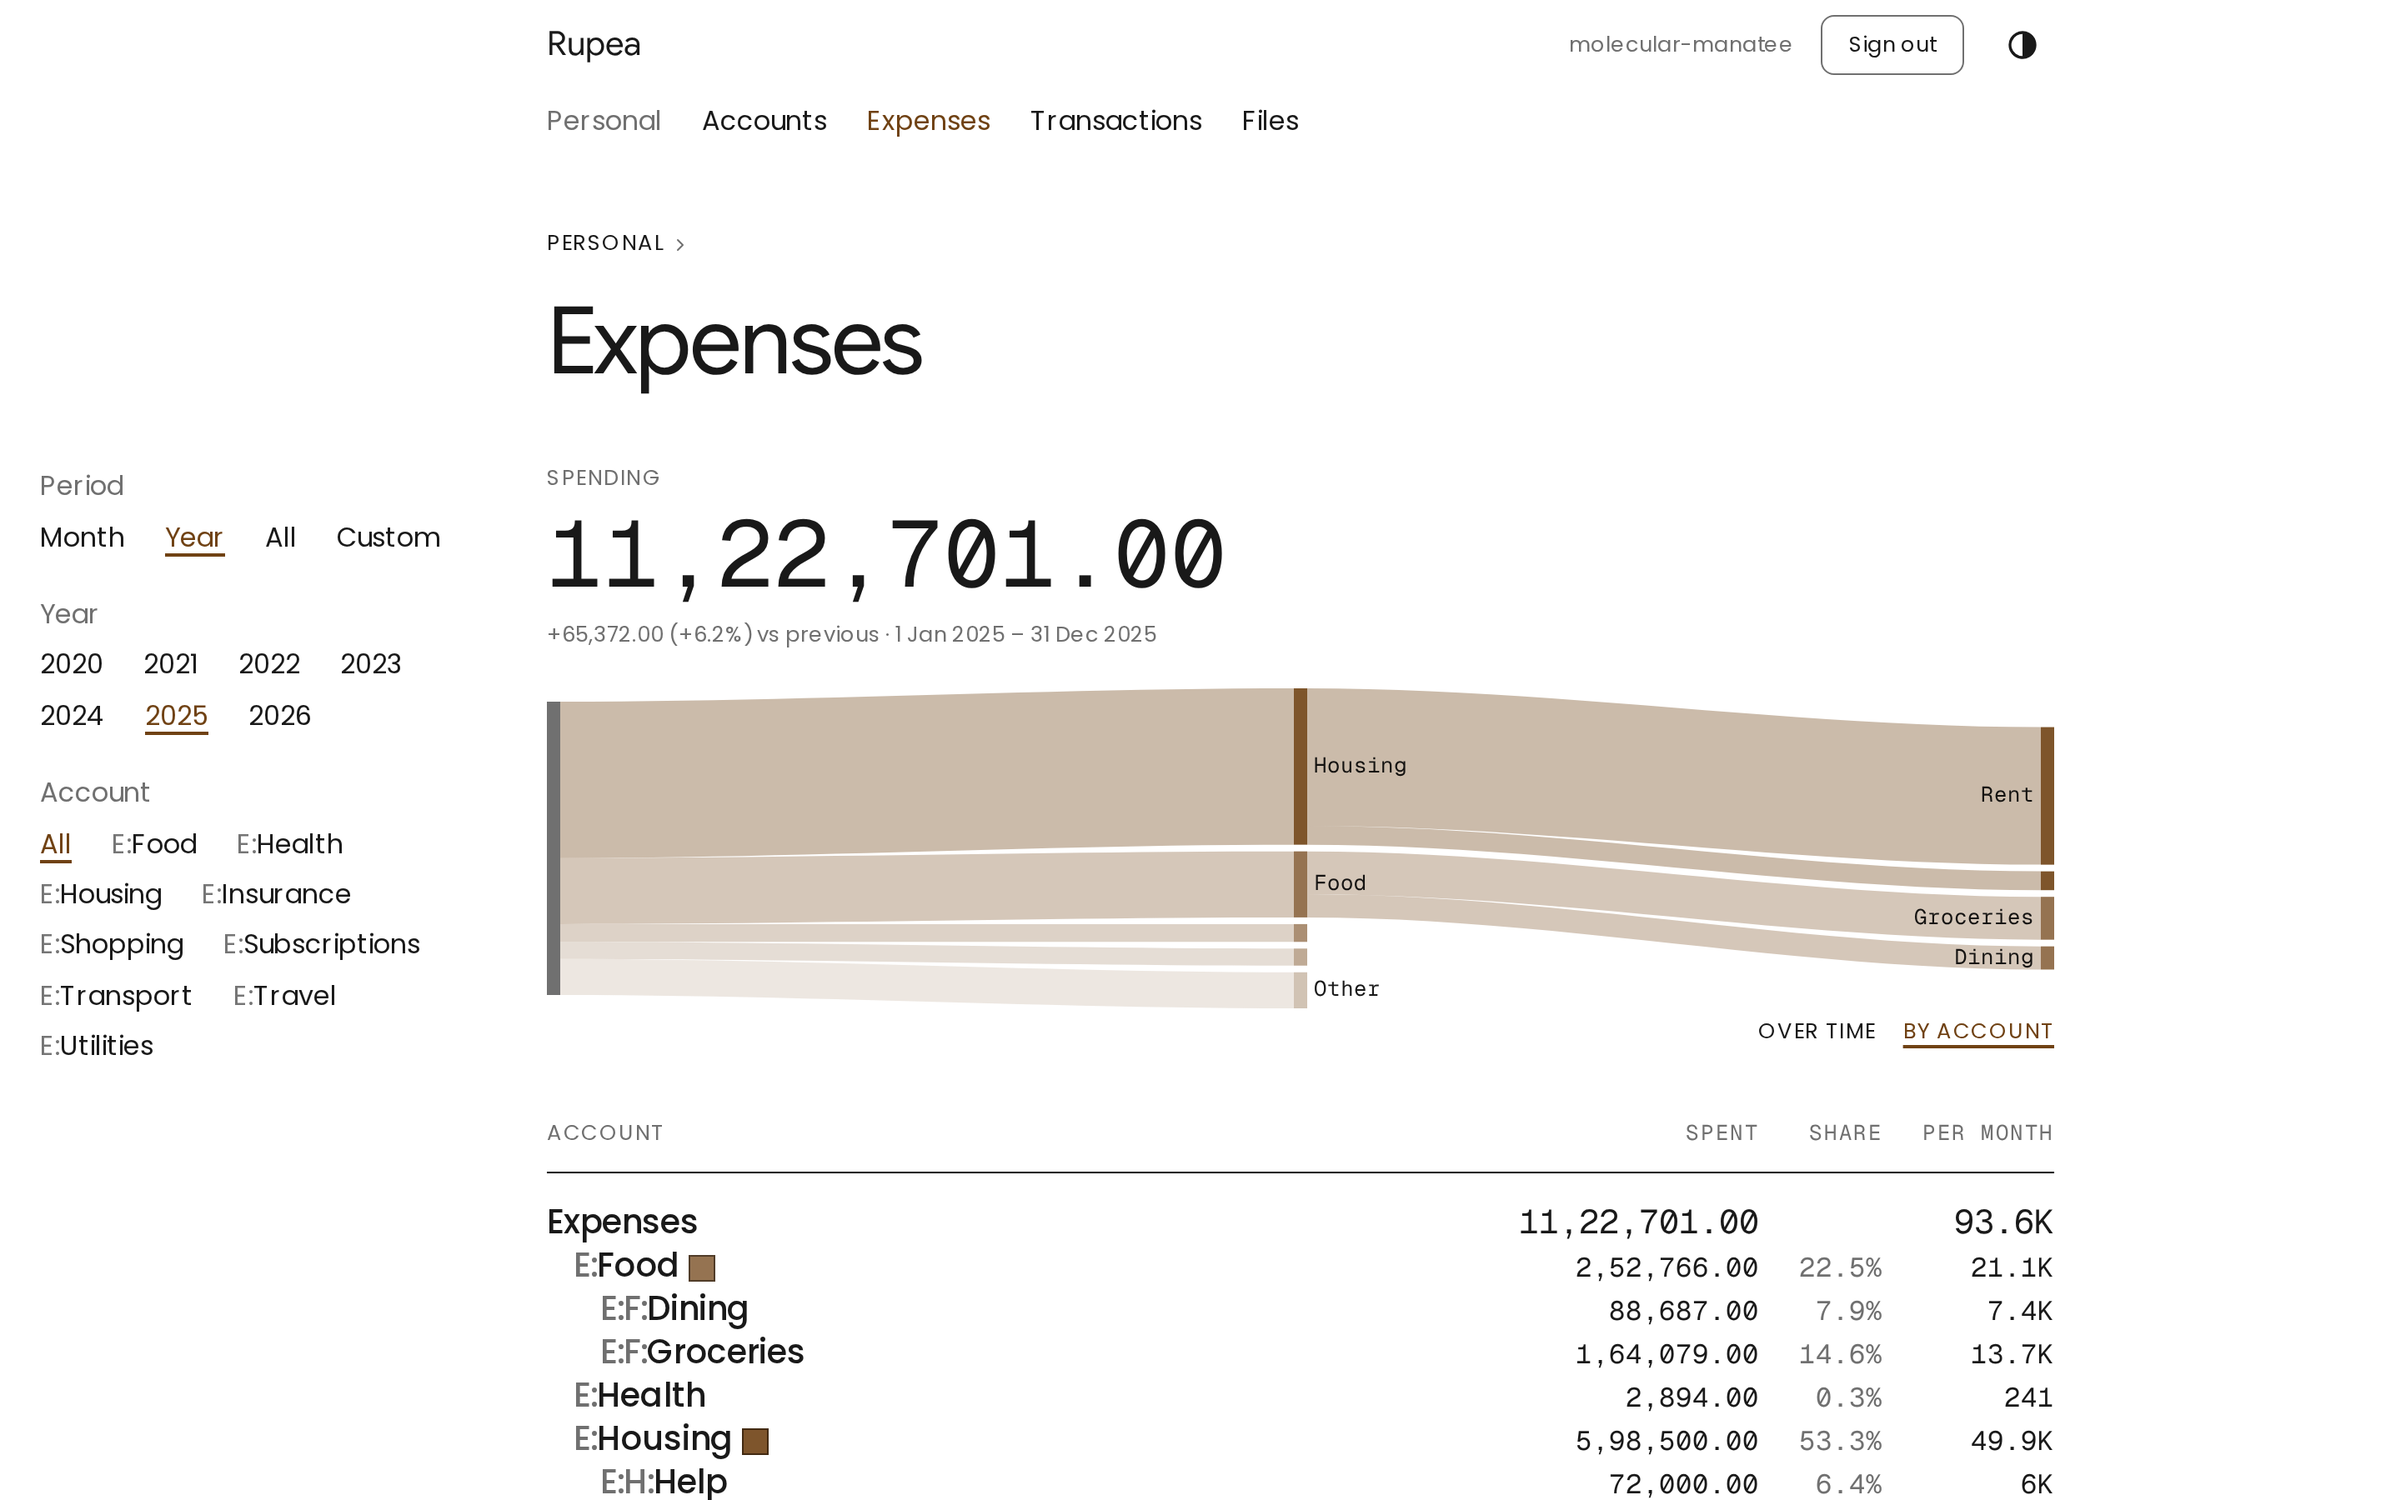
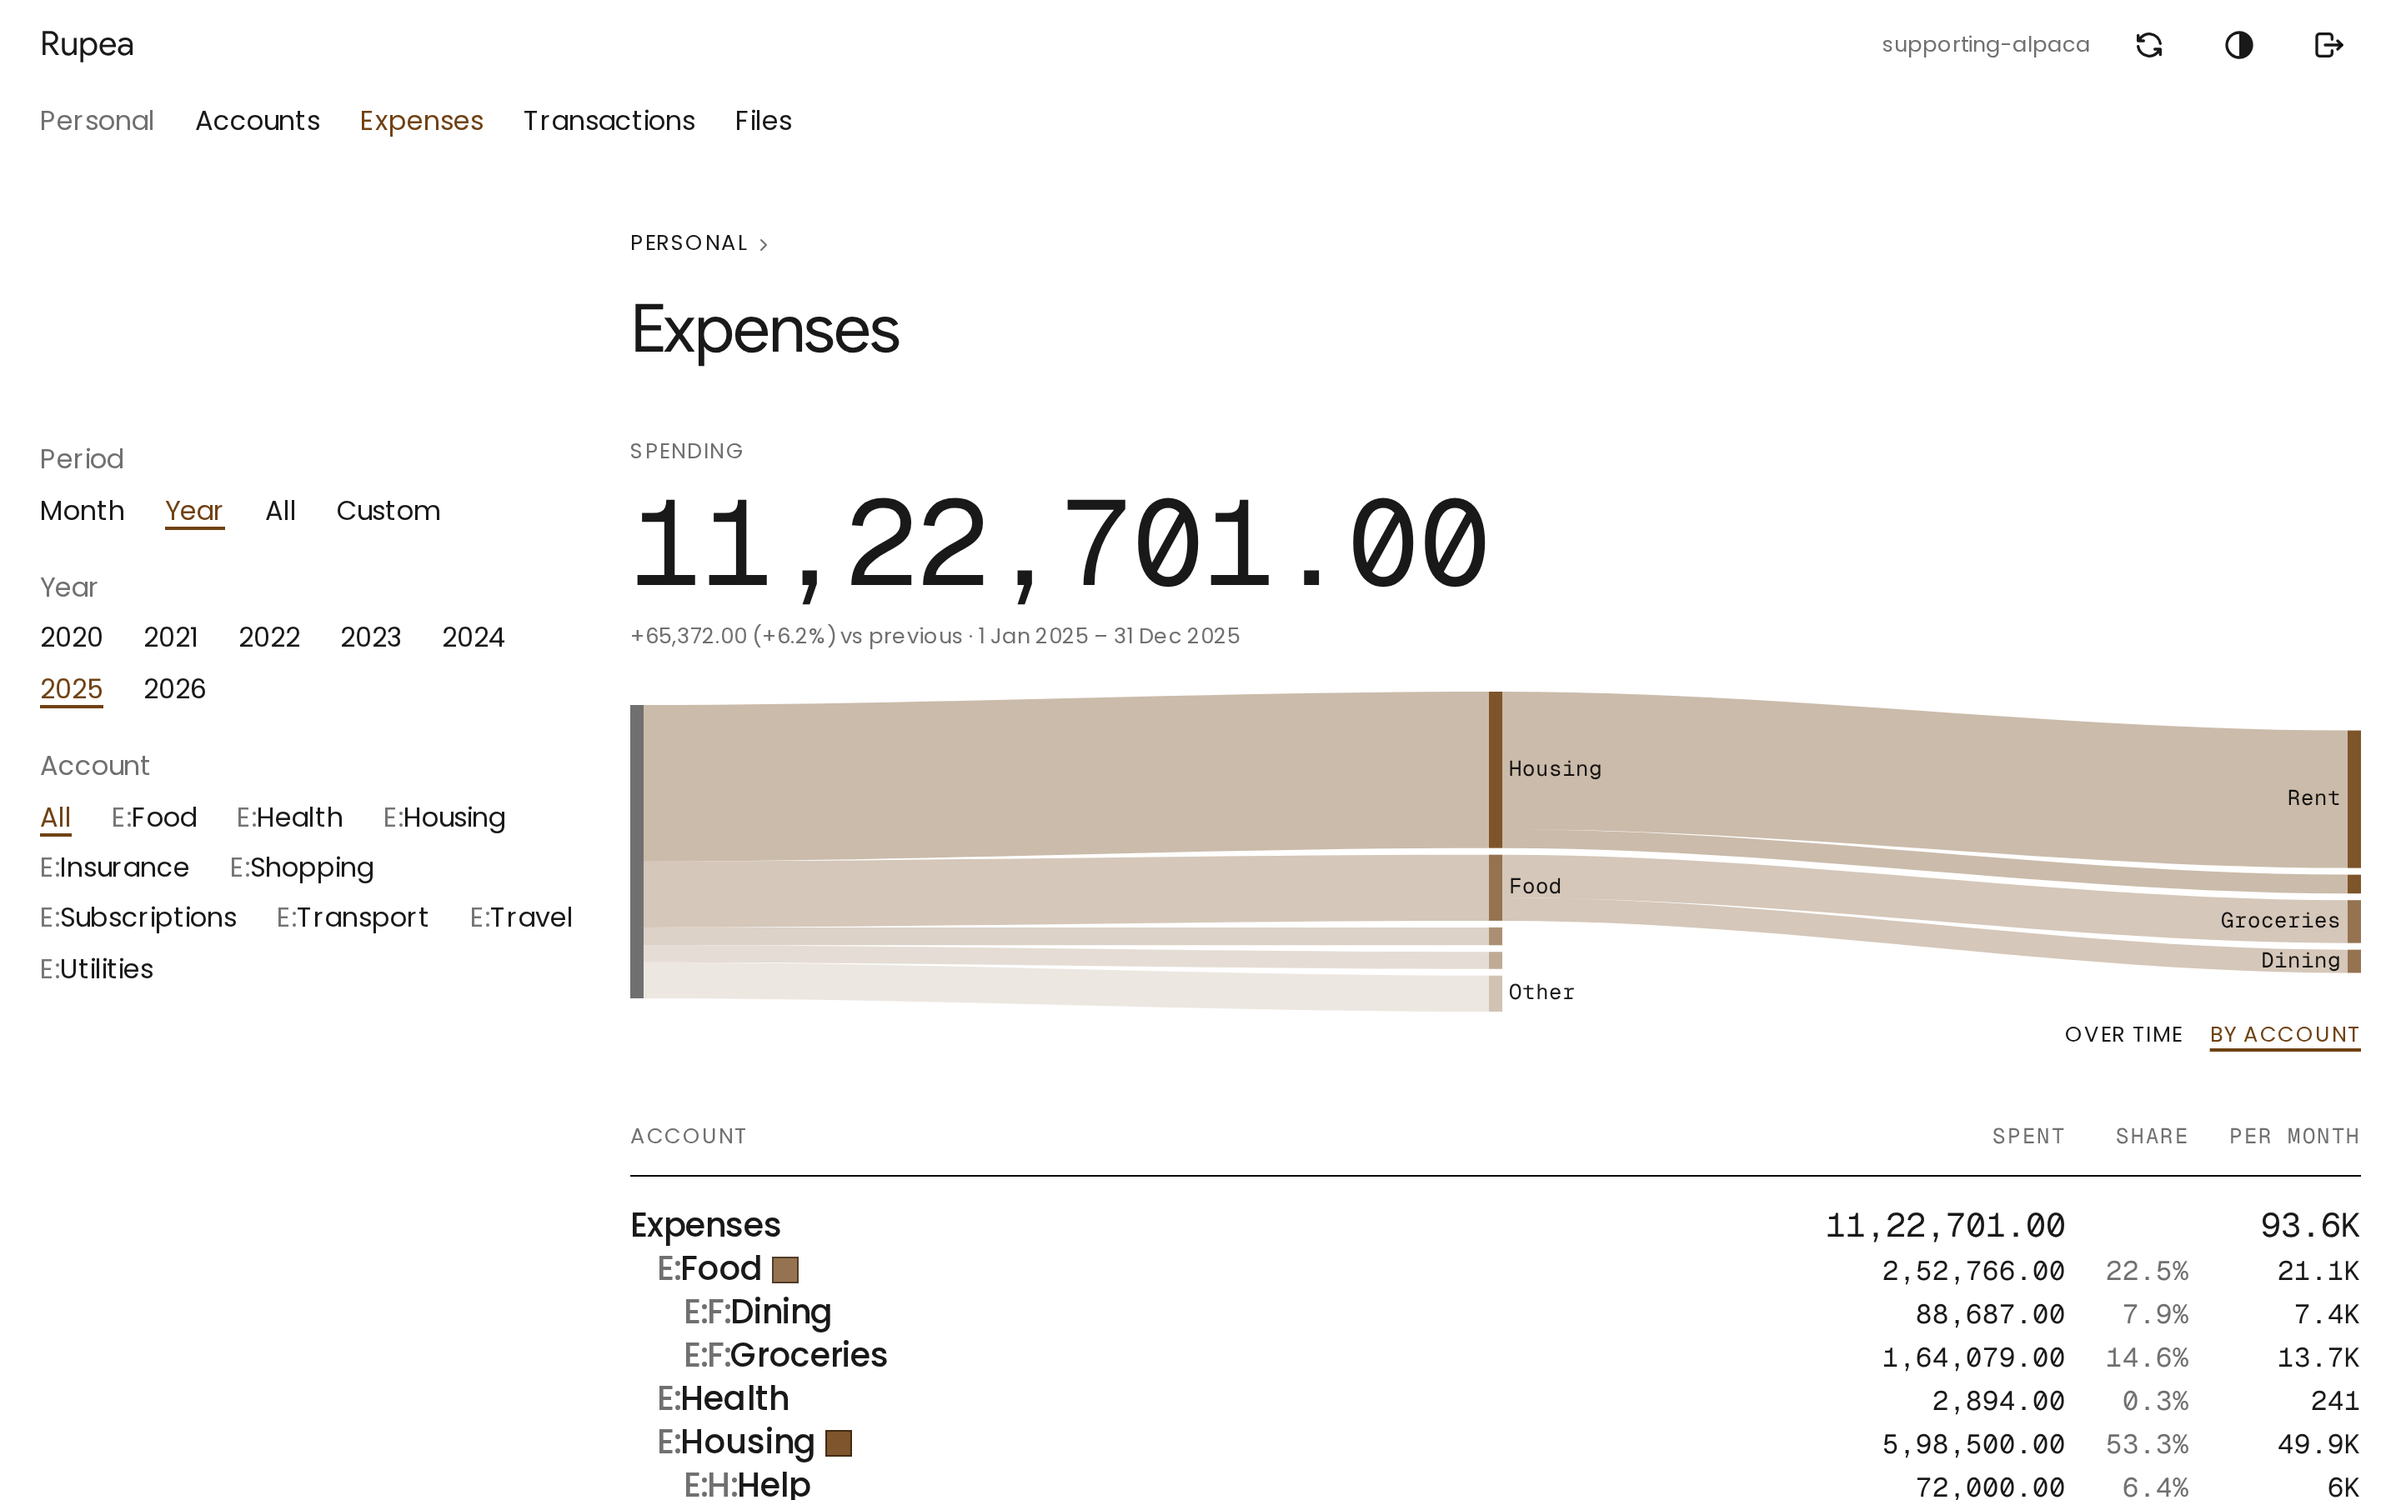
feat(design): lay out the app and site on one grid and type scale
Both now sit on a 12-column grid that stops growing at 90rem, with
equal outer margins, so pages stop looking lopsided. Page titles step
down to statement size, leaving display for the one thing a screen
exists to show.

The landing page drops its centred hero and thumbnails for
left-aligned statements, larger screens and a real ledger entry.

diff --git a/packages/theme/global.css b/packages/theme/global.css
@@ -5,7 +5,7 @@
 	--text-data: 1rem;
 	--text-heading: 1.25rem;
 	--text-statement: 2.5rem;
-	--text-display: 3.5rem;
+	--text-display: 4.5rem;
 
 	--gap-tight: 0.25rem;
 	--gap-label: 0.5rem;
@@ -16,12 +16,11 @@
 
 	--width-control: 9rem;
 
-	--measure: 64rem;
+	--grid-max: 90rem;
 	--sidebar: 16rem;
 	--plot: 16rem;
 	--plot-short: 12rem;
-	--inset: max(var(--gap-group), (100% - var(--measure)) / 2);
-	--inset-end: var(--inset);
+	--inset: max(var(--gap-group), (100% - var(--grid-max)) / 2);
 	--radius: 8px;
 
 	--font-body: 'Poppins', sans-serif;
@@ -64,11 +63,10 @@
 	--color-layer: color-mix(in srgb, var(--color-accent) 22%, transparent);
 }
 
-/* A page's filters sit beside the content from this width, so the content gives way to them on the left. */
-@media (width >= 80rem) {
+@media (width < 40rem) {
 	:root {
-		--inset: max(var(--gap-group) + var(--sidebar) + var(--gap-block), (100% - var(--measure)) / 2);
-		--inset-end: max(var(--gap-group), (100% - var(--measure)) / 2);
+		--text-statement: 1.75rem;
+		--text-display: 3rem;
 	}
 }
 
@@ -118,7 +116,7 @@ h4 {
 }
 
 h1 {
-	font-size: var(--text-display);
+	font-size: var(--text-statement);
 	line-height: 1;
 	letter-spacing: -0.02em;
 	margin: var(--gap-block) 0 var(--gap-group) 0;
@@ -200,6 +198,42 @@ a[aria-current] {
 	text-underline-offset: var(--gap-tight);
 }
 
+.grid {
+	display: grid;
+	grid-template-columns: repeat(4, minmax(0, 1fr));
+	column-gap: var(--gap-group);
+}
+
+.grid > * {
+	grid-column: 1 / -1;
+}
+
+@media (width >= 40rem) {
+	.grid {
+		grid-template-columns: repeat(12, minmax(0, 1fr));
+	}
+
+	.grid > .span-3 {
+		grid-column: span 3;
+	}
+
+	.grid > .span-4 {
+		grid-column: span 4;
+	}
+
+	.grid > .span-6 {
+		grid-column: span 6;
+	}
+
+	.grid > .span-8 {
+		grid-column: span 8;
+	}
+
+	.grid > .span-9 {
+		grid-column: span 9;
+	}
+}
+
 code {
 	font-size: var(--text-small);
 	font-family: var(--font-mono);
@@ -220,6 +254,10 @@ code {
 
 .labelled thead th {
 	border-bottom: 1px solid var(--color-ink);
+}
+
+.display {
+	font-size: var(--text-display);
 }
 
 .tag {

diff --git a/src/lib/web/components/filter-rail/filter-rail.svelte b/src/lib/web/components/filter-rail/filter-rail.svelte
@@ -39,19 +39,24 @@
 		margin-block: 0;
 	}
 
-	/* From this width the inset leaves a sidebar's room beside the content, which the filters take. */
+	/* From this width the filters take the three columns the content leaves free. */
 	@media (width >= 80rem) {
-		.rail {
+		:global(.content) > .rail {
 			display: grid;
-			grid-template-columns: var(--sidebar) minmax(0, 1fr);
-			gap: var(--gap-block);
-			margin-left: calc(-1 * (var(--sidebar) + var(--gap-block)));
+			grid-column: 1 / -1;
+			grid-template-columns: subgrid;
+			column-gap: var(--gap-group);
 		}
 
 		aside {
 			position: sticky;
 			top: var(--gap-related);
+			grid-column: 1 / span 3;
 			align-self: start;
+		}
+
+		.page {
+			grid-column: 4 / -1;
 		}
 	}
 </style>

diff --git a/src/routes/(signed-in)/+layout.svelte b/src/routes/(signed-in)/+layout.svelte
@@ -61,7 +61,7 @@
 		</nav>
 	{/if}
 
-	<div class="content">
+	<div class="content grid">
 		{@render children()}
 	</div>
 </div>
@@ -106,9 +106,7 @@
 	}
 
 	.content {
-		display: flex;
-		flex-direction: column;
-		gap: var(--gap-block);
+		row-gap: var(--gap-block);
 		padding-top: var(--gap-block);
 	}
 
@@ -116,10 +114,10 @@
 		margin-block: 0;
 	}
 
-	@media (width < 80rem) {
-		.content {
-			gap: var(--gap-block);
-			padding-top: var(--gap-block);
+	/* From this width the rail has room, and every page's content keeps to the same nine columns. */
+	@media (width >= 80rem) {
+		.content > :global(*) {
+			grid-column: 4 / -1;
 		}
 	}
 </style>

diff --git a/packages/site/src/site.css b/packages/site/src/site.css
@@ -1,5 +1,4 @@
 :root {
-	--site-width: 80rem;
 	--column: 45rem;
 }
 
@@ -12,7 +11,7 @@
 }
 
 .wide {
-	max-width: var(--site-width);
+	max-width: var(--grid-max);
 	margin-inline: auto;
 	padding-inline: var(--gap-group);
 	box-sizing: border-box;

diff --git a/src/routes/+layout.svelte b/src/routes/+layout.svelte
@@ -42,7 +42,7 @@
 <style>
 	header,
 	main {
-		padding-inline: var(--inset) var(--inset-end);
+		padding-inline: var(--inset);
 	}
 
 	header > div {

diff --git a/docs/DESIGN.md b/docs/DESIGN.md
@@ -121,13 +121,13 @@ If no role fits, raise it as a question. Don't add a value.
 
 ## Type
 
-| Token              | Size                    | Use                          |
-| ------------------ | ----------------------- | ---------------------------- |
-| `--text-small`     | 0.8rem                  | Labels, dates, sources       |
-| `--text-data`      | 1rem                    | Text, rows, controls         |
-| `--text-heading`   | 1.25rem                 | Headings inside a page       |
-| `--text-statement` | 2.5rem                  | Page titles, big sentences   |
-| `--text-display`   | 4.5rem, 3rem on a phone | The one thing a screen shows |
+| Token              | Size                       | Use                          |
+| ------------------ | -------------------------- | ---------------------------- |
+| `--text-small`     | 0.8rem                     | Labels, dates, sources       |
+| `--text-data`      | 1rem                       | Text, rows, controls         |
+| `--text-heading`   | 1.25rem                    | Headings inside a page       |
+| `--text-statement` | 2.5rem, 1.75rem on a phone | Page titles, big sentences   |
+| `--text-display`   | 4.5rem, 3rem on a phone    | The one thing a screen shows |
 
 Each face has a role: Poppins for text, Google Sans for titles and statements, Geist Mono for numbers and code. Amounts are right-aligned, monospace and tabular.
 
